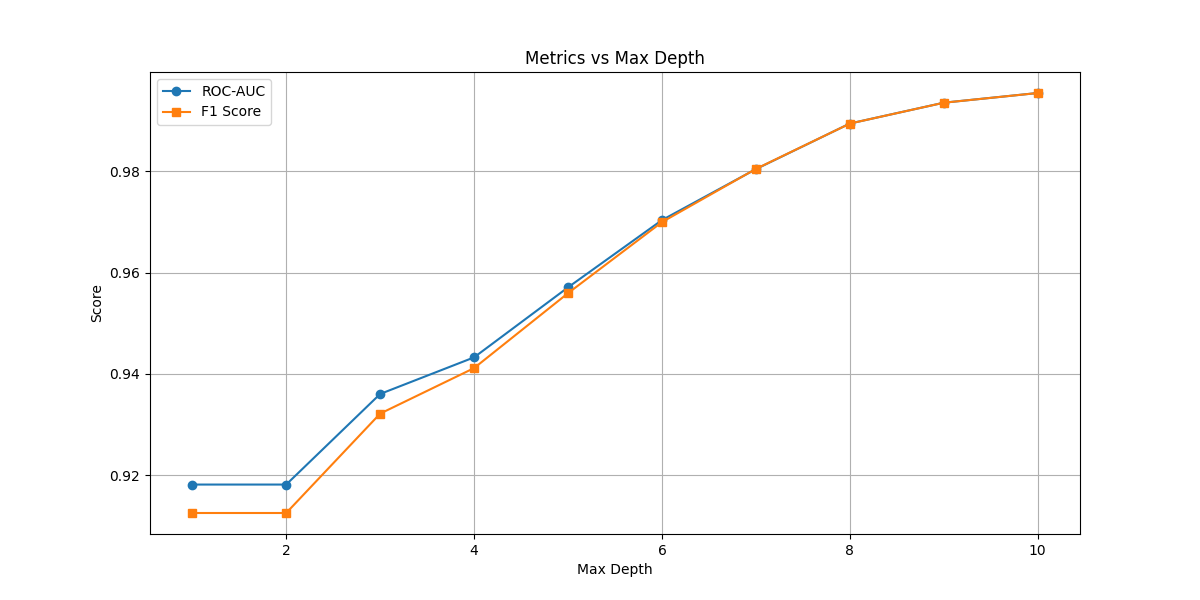
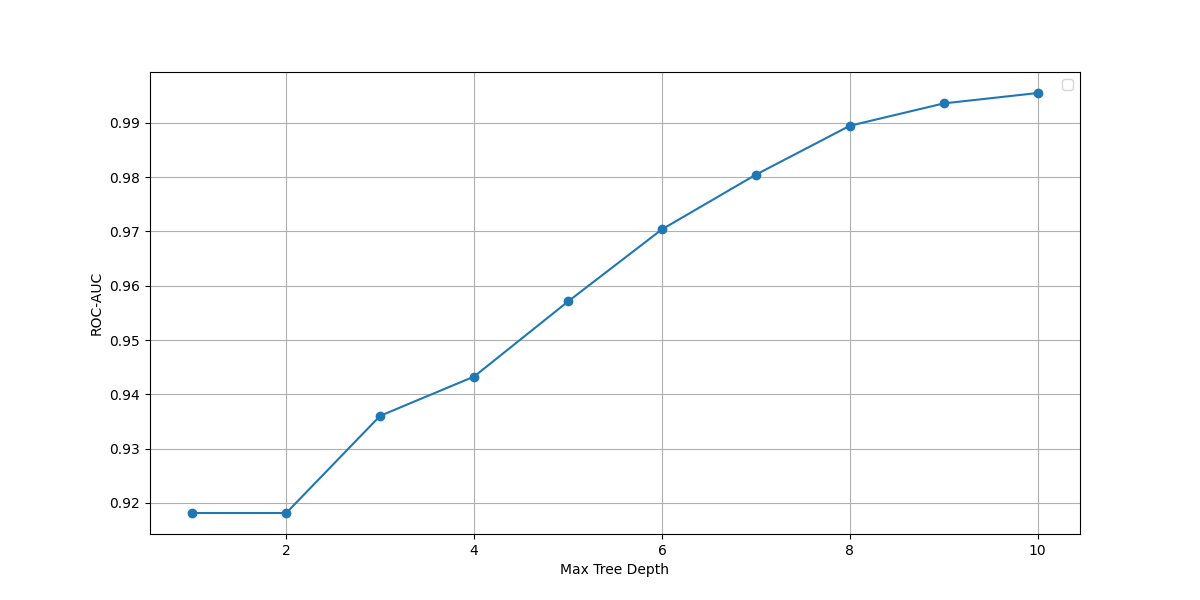
Update plots

diff --git a/src/fraud-detection/gradient_boosting.py b/src/fraud-detection/gradient_boosting.py
@@ -141,11 +141,9 @@ class GradientBoosting:
         # График зависимости метрик от глубины
         depths, roc_aucs, f1_scores = zip(*self.depth_metrics)
         plt.figure(figsize=(12, 6))
-        plt.plot(depths, roc_aucs, marker='o', label="ROC-AUC")
-        plt.plot(depths, f1_scores, marker='s', label="F1 Score")
-        plt.xlabel("Max Depth")
-        plt.ylabel("Score")
-        plt.title("Metrics vs Max Depth")
+        plt.plot(depths, roc_aucs, marker='o')
+        plt.xlabel("Max Tree Depth")
+        plt.ylabel("ROC-AUC")
         plt.legend()
         plt.grid()
         plt.show()
@@ -154,10 +152,9 @@ class GradientBoosting:
         # График времени обучения в зависимости от глубины
         depths, times = zip(*self.depth_times)
         plt.figure(figsize=(12, 6))
-        plt.plot(depths, times, marker='o', label="Training Time")
-        plt.xlabel("Max Depth")
-        plt.ylabel("Training Time (seconds)")
-        plt.title("Training Time vs Max Depth")
+        plt.plot(depths, times, marker='o')
+        plt.xlabel("Max Tree Depth")
+        plt.ylabel("Learning Time (seconds)")
         plt.legend()
         plt.grid()
         plt.show()
@@ -165,10 +162,9 @@ class GradientBoosting:
     def plot_tree_training_time(self):
         # Время обучения для каждого дерева
         plt.figure(figsize=(12, 6))
-        plt.plot(range(1, len(self.training_times) + 1), self.training_times, marker='o', label="Time per Tree")
+        plt.plot(range(1, len(self.training_times) + 1), self.training_times, marker='o')
         plt.xlabel("Tree Number")
-        plt.ylabel("Training Time (seconds)")
-        plt.title("Training Time per Tree")
+        plt.ylabel("Learning Time (seconds)")
         plt.legend()
         plt.grid()
         plt.show()

diff --git a/src/fraud-detection/perceptron.py b/src/fraud-detection/perceptron.py
@@ -129,17 +129,15 @@ print(f"ROC-AUC: {roc_auc:.4f}")
 plt.figure(figsize=(12, 6))
 
 # График ошибки
-plt.subplot(1, 2, 1)
-plt.plot(range(1, num_epochs + 1), train_losses, label='Train Loss')
-plt.title('Loss Over Epochs')
+plt.figure(figsize=(12, 6))
+plt.plot(range(1, num_epochs + 1), train_losses, marker='o')
 plt.xlabel('Epoch')
 plt.ylabel('Loss')
 plt.legend()
 
 # График ROC-AUC
-plt.subplot(1, 2, 2)
-plt.plot(range(1, num_epochs + 1), val_roc_auc, label='Validation ROC-AUC')
-plt.title('Validation ROC-AUC Over Epochs')
+plt.figure(figsize=(12, 6))
+plt.plot(range(1, num_epochs + 1), val_roc_auc, marker='o')
 plt.xlabel('Epoch')
 plt.ylabel('ROC-AUC')
 plt.legend()
@@ -149,10 +147,9 @@ plt.show()
 
 # График кумулятивного времени
 cumulative_time = np.cumsum(train_time)
-plt.figure(figsize=(6, 4))
-plt.plot(range(1, num_epochs + 1), cumulative_time, label='Cumulative Train Time (s)')
-plt.title('Cumulative Training Time')
+plt.figure(figsize=(12, 6))
+plt.plot(range(1, num_epochs + 1), cumulative_time, marker='o')
 plt.xlabel('Epoch')
-plt.ylabel('Time (s)')
+plt.ylabel('Cumulative Learning Time (seconds)')
 plt.legend()
 plt.show()

diff --git a/src/fraud-detection/decision_tree.py b/src/fraud-detection/decision_tree.py
@@ -143,20 +143,17 @@ metrics_df = pd.DataFrame(metrics_data, columns=['max_depth', 'accuracy', 'preci
 cumulative_timing_df = pd.DataFrame(cumulative_timing_data, columns=['max_depth', 'cumulative_time'])
 
 plt.figure(figsize=(12, 6))
-plt.plot(metrics_df['max_depth'], metrics_df['accuracy'], marker='o', label='Accuracy')
-plt.plot(metrics_df['max_depth'], metrics_df['roc_auc'], marker='o', label='ROC-AUC')
-plt.xlabel('Max Depth')
-plt.ylabel('Metrics')
-plt.title('Metrics vs Tree Depth')
+plt.plot(metrics_df['max_depth'], metrics_df['roc_auc'], marker='o')
+plt.xlabel('Max Tree Depth')
+plt.ylabel('ROC-AUC')
 plt.legend()
 plt.grid()
 plt.show()
 
 plt.figure(figsize=(12, 6))
-plt.plot(cumulative_timing_df['max_depth'], cumulative_timing_df['cumulative_time'], marker='o', label='Cumulative Time')
-plt.xlabel('Max Depth')
-plt.ylabel('Cumulative Time (seconds)')
-plt.title('Cumulative Time vs Tree Depth')
+plt.plot(cumulative_timing_df['max_depth'], cumulative_timing_df['cumulative_time'], marker='o')
+plt.xlabel('Max Tree Depth')
+plt.ylabel('Cumulative Learning Time (seconds)')
 plt.legend()
 plt.grid()
 plt.show()

diff --git a/src/fraud-detection/logistic_regression.py b/src/fraud-detection/logistic_regression.py
@@ -129,21 +129,19 @@ evaluate_model(X_test, y_test, weights, bias)
 
 # График ROC-AUC
 plt.figure(figsize=(10, 6))
-plt.plot(range(0, len(roc_auc_scores) * 10, 10), roc_auc_scores, label='ROC-AUC', marker='o')
-plt.yscale('log')  # Логарифмическая шкала
+plt.plot(range(0, len(roc_auc_scores) * 10, 10), roc_auc_scores, marker='o')
+#plt.yscale('log')  # Логарифмическая шкала
 plt.xlabel('Epoch')
-plt.ylabel('ROC-AUC (log scale)')
-plt.title('ROC-AUC Score vs Epoch (Logarithmic Scale)')
+plt.ylabel('ROC-AUC')
 plt.legend()
 plt.grid()
 plt.show()
 
 # График накопленного времени
 plt.figure(figsize=(10, 6))
-plt.plot(range(len(cumulative_times)), cumulative_times, label='Cumulative Time', marker='o', color='orange')
+plt.plot(range(len(cumulative_times)), cumulative_times, marker='o')
 plt.xlabel('Epoch')
-plt.ylabel('Cumulative Time (seconds)')
-plt.title('Cumulative Training Time vs Epoch')
+plt.ylabel('Cumulative Learning Time (seconds)')
 plt.legend()
 plt.grid()
 plt.show()

diff --git a/src/fraud-detection/random_forest.py b/src/fraud-detection/random_forest.py
@@ -132,21 +132,19 @@ metrics_df = pd.DataFrame(metrics_data, columns=['max_depth', 'accuracy', 'preci
 
 # График времени
 plt.figure(figsize=(12, 6))
-plt.plot(timing_df['max_depth'], timing_df['time'], marker='o', label='Time')
-plt.xlabel('Max Depth')
-plt.ylabel('Time (seconds)')
-plt.title('Time vs Max Depth')
+plt.plot(timing_df['max_depth'], timing_df['time'], marker='o')
+plt.xlabel('Max Tree Depth')
+plt.ylabel('Cumulative Learning Time (seconds)')
 plt.grid()
 plt.legend()
 plt.show()
 
 # График метрик
 plt.figure(figsize=(12, 6))
-for metric in ['f1', 'roc_auc']:
-    plt.plot(metrics_df['max_depth'], metrics_df[metric], marker='o', label=metric)
-plt.xlabel('Max Depth')
-plt.ylabel('Metric Value')
-plt.title('Metrics vs Max Depth')
+for metric in ['roc_auc']:
+    plt.plot(metrics_df['max_depth'], metrics_df[metric], marker='o')
+plt.xlabel('Max Tree Depth')
+plt.ylabel('ROC-AUC')
 plt.grid()
 plt.legend()
 plt.show()
